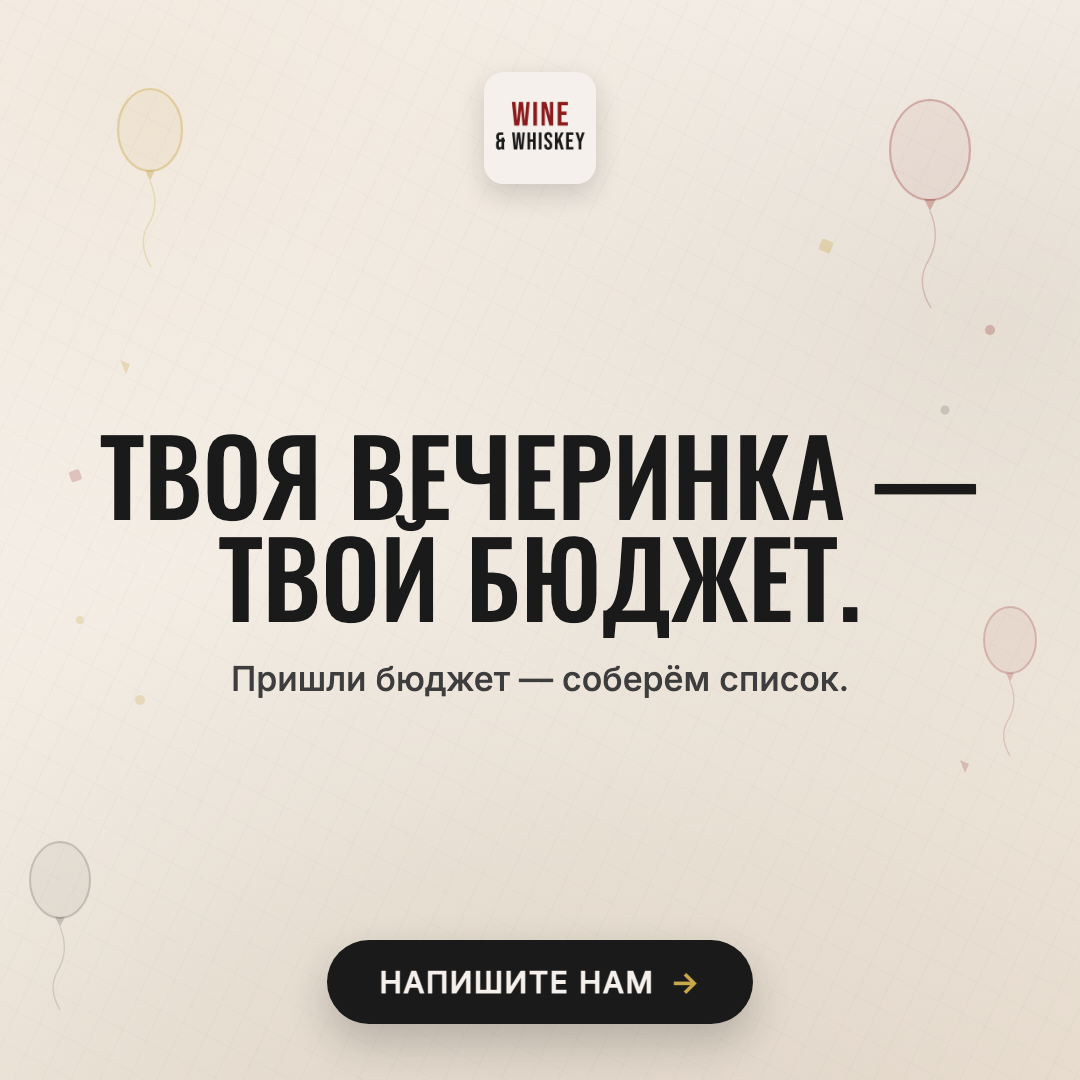
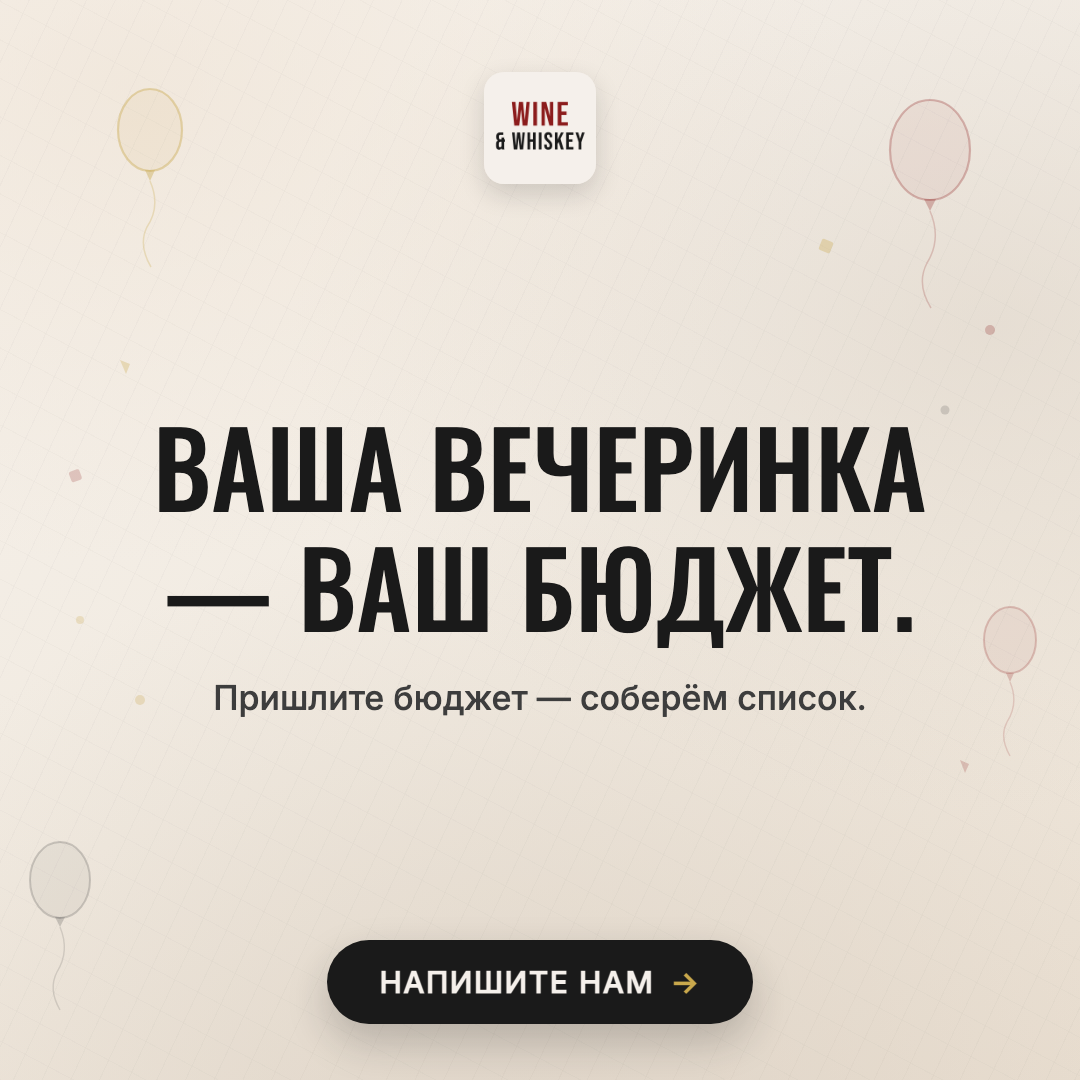
fix(campaign): RU formal 'вы' + fix Cyrillic headline line-height
- All RU copy switched to formal address (Планируете/ваш/вам, not ты).
- Oswald (RU) headline line-height 1.16 so two-line Cyrillic headlines no
  longer collide. copy-deck.md regenerated from copy.py.

Changed region(s): [[0.0917, 0.3972, 0.9167, 0.6722]]

diff --git a/05_creative/output/2026-07-13_birthday-beverage-partner/copy.py b/05_creative/output/2026-07-13_birthday-beverage-partner/copy.py
@@ -9,9 +9,9 @@ COPY = {
             "cta": "Message us",
         },
         "ru": {
-            "headline": "ПЛАНИРУЕШЬ ДЕНЬ РОЖДЕНИЯ?",
-            "sub": "Подберём напитки под твой праздник.",
-            "primary": "Скажи дату и настроение — подберём напитки под твой праздник. С градусами и без, точно в твой бюджет.",
+            "headline": "ПЛАНИРУЕТЕ ДЕНЬ РОЖДЕНИЯ?",
+            "sub": "Подберём напитки под ваш праздник.",
+            "primary": "Скажите дату и настроение — подберём напитки под ваш праздник. С градусами и без, точно в ваш бюджет.",
             "cta": "Напишите нам",
         },
     },
@@ -23,9 +23,9 @@ COPY = {
             "cta": "Message us",
         },
         "ru": {
-            "headline": "ТВОЯ ВЕЧЕРИНКА — ТВОЙ БЮДЖЕТ.",
-            "sub": "Пришли бюджет — соберём список.",
-            "primary": "Пришли бюджет и число гостей. Соберём список напитков — с градусами и без — под него.",
+            "headline": "ВАША ВЕЧЕРИНКА — ВАШ БЮДЖЕТ.",
+            "sub": "Пришлите бюджет — соберём список.",
+            "primary": "Пришлите бюджет и число гостей. Соберём список напитков — с градусами и без — под него.",
             "cta": "Напишите нам",
         },
     },
@@ -38,8 +38,8 @@ COPY = {
         },
         "ru": {
             "headline": "БОЛЬШЕ ГОСТЕЙ — ИНТЕРЕСНЕЕ ЦЕНА.",
-            "sub": "Мелкий опт на твой праздник.",
-            "primary": "Мелкий опт на твой праздник — один заказ, одна доставка, приятнее цена.",
+            "sub": "Мелкий опт на ваш праздник.",
+            "primary": "Мелкий опт на ваш праздник — один заказ, одна доставка, приятнее цена.",
             "cta": "Напишите нам",
         },
     },
@@ -51,8 +51,8 @@ COPY = {
             "cta": "Message us",
         },
         "ru": {
-            "headline": "ДОСТАВИМ К ТВОЕМУ ПРАЗДНИКУ.",
-            "sub": "Закажем и привезём — тебе.",
+            "headline": "ДОСТАВИМ К ВАШЕМУ ПРАЗДНИКУ.",
+            "sub": "Закажем и привезём — вам.",
             "primary": "Закажем и привезём — чтобы день рождения был про праздник, а не про поездку в магазин.",
             "cta": "Напишите нам",
         },

diff --git a/05_creative/output/2026-07-13_birthday-beverage-partner/build.py b/05_creative/output/2026-07-13_birthday-beverage-partner/build.py
@@ -72,7 +72,7 @@ body {
 }
 .headline { text-transform:uppercase; letter-spacing:.01em; }
 .headline.lang-en { font-family:'Bebas Neue'; font-weight:400; }
-.headline.lang-ru { font-family:'Oswald'; font-weight:500; letter-spacing:.005em; }
+.headline.lang-ru { font-family:'Oswald'; font-weight:500; letter-spacing:.005em; line-height:1.16; }
 """
 
 # Decor: brand-tint balloons + confetti dots, kept out of the safe zone

diff --git a/05_creative/output/2026-07-13_birthday-beverage-partner/copy-deck.md b/05_creative/output/2026-07-13_birthday-beverage-partner/copy-deck.md
@@ -3,7 +3,9 @@
 Source of truth: [`copy.py`](./copy.py) — the `COPY` dict, consumed by `build.py` (Task 3).
 This table is the paste-into-Ads-Manager reference. If it ever disagrees with `copy.py`, `copy.py` wins — update this file to match.
 
-Meta limits: headline ≤ 40 chars, primary text ≤ 125 chars (before "…more" truncation). All rows below passed the automated check (see `copy.py` docstring / Task 2 verification).
+Meta limits: headline ≤ 40 chars, primary text ≤ 125 chars (before "…more" truncation). All rows below passed the automated check.
+
+RU voice: formal "вы" (Планируете / ваш / вам), not "ты".
 
 Legal frame (non-negotiable, applied to every row): no alcohol brand names, no pouring/drinking verbs, celebration-led framing, "beverages with and without alcohol" present or clearly implied.
 
@@ -12,63 +14,57 @@ Legal frame (non-negotiable, applied to every row): no alcohol brand names, no p
 | Lang | Field | Copy | Chars |
 |---|---|---|---|
 | EN | Headline | PLANNING YOUR BIRTHDAY? | 23 |
-| EN | Sub | We curate the drinks for your celebration. | 44 |
+| EN | Sub | We curate the drinks for your celebration. | 42 |
 | EN | Primary | Tell us the date and the vibe — we'll curate the drinks. With and without alcohol, matched to your budget. | 106 |
 | EN | CTA | Message us | — |
-| RU | Headline | ПЛАНИРУЕШЬ ДЕНЬ РОЖДЕНИЯ? | 25 |
-| RU | Sub | Подберём напитки под твой праздник. | 36 |
-| RU | Primary | Скажи дату и настроение — подберём напитки под твой праздник. С градусами и без, точно в твой бюджет. | 101 |
+| RU | Headline | ПЛАНИРУЕТЕ ДЕНЬ РОЖДЕНИЯ? | 25 |
+| RU | Sub | Подберём напитки под ваш праздник. | 34 |
+| RU | Primary | Скажите дату и настроение — подберём напитки под ваш праздник. С градусами и без, точно в ваш бюджет. | 101 |
 | RU | CTA | Напишите нам | — |
 
-**Legal check:** No brand names. No pouring/drinking verbs ("curate"/"подберём", not "pour"/"drink"). Celebration-led (birthday framing in headline). "With and without alcohol" explicit in primary (EN) / "с градусами и без" explicit (RU). ✅
+**Legal check:** No brand names. No pouring/drinking verbs ("curate"/"подберём"). Celebration-led (birthday framing). "With and without alcohol" / "с градусами и без" explicit in primary. ✅
 
 ## Angle: brief — "Send your budget, we build the list"
 
 | Lang | Field | Copy | Chars |
 |---|---|---|---|
 | EN | Headline | YOUR PARTY, YOUR BUDGET. | 24 |
-| EN | Sub | Send the budget — we build the list. | 37 |
+| EN | Sub | Send the budget — we build the list. | 36 |
 | EN | Primary | Send us your budget and guest count. We build the drinks list — with and without alcohol — around it. | 101 |
 | EN | CTA | Message us | — |
-| RU | Headline | ТВОЯ ВЕЧЕРИНКА — ТВОЙ БЮДЖЕТ. | 29 |
-| RU | Sub | Пришли бюджет — соберём список. | 32 |
-| RU | Primary | Пришли бюджет и число гостей. Соберём список напитков — с градусами и без — под него. | 85 |
+| RU | Headline | ВАША ВЕЧЕРИНКА — ВАШ БЮДЖЕТ. | 28 |
+| RU | Sub | Пришлите бюджет — соберём список. | 33 |
+| RU | Primary | Пришлите бюджет и число гостей. Соберём список напитков — с градусами и без — под него. | 87 |
 | RU | CTA | Напишите нам | — |
 
-**Legal check:** No brand names. No pouring/drinking verbs ("send"/"build"/"пришли"/"соберём"). Celebration-led (party/budget framing). "With and without alcohol" explicit in primary (EN) / "с градусами и без" explicit (RU). ✅
+**Legal check:** No brand names. No pouring/drinking verbs ("build"/"соберём"). Celebration-led (party/budget framing). "With and without alcohol" / "с градусами и без" explicit in primary. ✅
 
 ## Angle: bulk — "Bigger party, better price" (light wholesale)
 
 | Lang | Field | Copy | Chars |
 |---|---|---|---|
 | EN | Headline | BIGGER PARTY, BETTER PRICE. | 27 |
-| EN | Sub | Light wholesale for your celebration. | 38 |
+| EN | Sub | Light wholesale for your celebration. | 37 |
 | EN | Primary | Light wholesale for your celebration — one order, one delivery, a friendlier price. | 83 |
 | EN | CTA | Message us | — |
 | RU | Headline | БОЛЬШЕ ГОСТЕЙ — ИНТЕРЕСНЕЕ ЦЕНА. | 32 |
-| RU | Sub | Мелкий опт на твой праздник. | 29 |
-| RU | Primary | Мелкий опт на твой праздник — один заказ, одна доставка, приятнее цена. | 71 |
+| RU | Sub | Мелкий опт на ваш праздник. | 27 |
+| RU | Primary | Мелкий опт на ваш праздник — один заказ, одна доставка, приятнее цена. | 70 |
 | RU | CTA | Напишите нам | — |
 
-**Legal check:** No brand names. No pouring/drinking verbs. Celebration-led (party framing in headline/sub). "With and without alcohol" not restated here (implied by campaign-wide "beverages" framing established in the curate/brief angles of the same ad set) — no product-specific claim is made, so no legal risk. ✅
+**Legal check:** No brand names. No pouring/drinking verbs. Celebration-led (party/value framing). Beverages framing carried by the campaign; no product claim made. ✅
 
-## Angle: delivered — "We order it and bring it to you"
+## Angle: delivered — "Ordered, brought, delivered"
 
 | Lang | Field | Copy | Chars |
 |---|---|---|---|
 | EN | Headline | DELIVERED TO YOUR CELEBRATION. | 30 |
-| EN | Sub | We order it and bring it to you. | 33 |
+| EN | Sub | We order it and bring it to you. | 32 |
 | EN | Primary | We order it and bring it to you — so your birthday is about the party, not the run to the shop. | 95 |
 | EN | CTA | Message us | — |
-| RU | Headline | ДОСТАВИМ К ТВОЕМУ ПРАЗДНИКУ. | 28 |
-| RU | Sub | Закажем и привезём — тебе. | 26 |
+| RU | Headline | ДОСТАВИМ К ВАШЕМУ ПРАЗДНИКУ. | 28 |
+| RU | Sub | Закажем и привезём — вам. | 25 |
 | RU | Primary | Закажем и привезём — чтобы день рождения был про праздник, а не про поездку в магазин. | 86 |
 | RU | CTA | Напишите нам | — |
 
-**Legal check:** No brand names. No pouring/drinking verbs ("order"/"bring"/"закажем"/"привезём" are logistics verbs, not consumption verbs). Celebration-led (birthday framing explicit). "With and without alcohol" not restated here (implied by campaign-wide "beverages" framing; no product-specific claim made). ✅
-
-## Notes for the ad-set owner
-
-- `headline` and `sub` render on the image (baked in by `build.py`); `primary` and `cta` are Meta ad-copy fields entered directly in Ads Manager, not part of the image.
-- All 8 rows (4 angles × 2 languages) passed the automated Meta character-limit check: headline ≤ 40, primary ≤ 125.
-- One edit was required during drafting: `curate/en.primary` was shortened from 137 to 106 characters (removed the redundant word "Beverages" since "with and without alcohol" already carries the legal frame without it). Meaning, tone, and the legal frame were preserved.
+**Legal check:** No brand names. No pouring/drinking verbs ("order"/"bring"/"закажем"/"привезём"). Celebration/logistics-led. Beverages framing carried by the campaign; no product claim made. ✅
